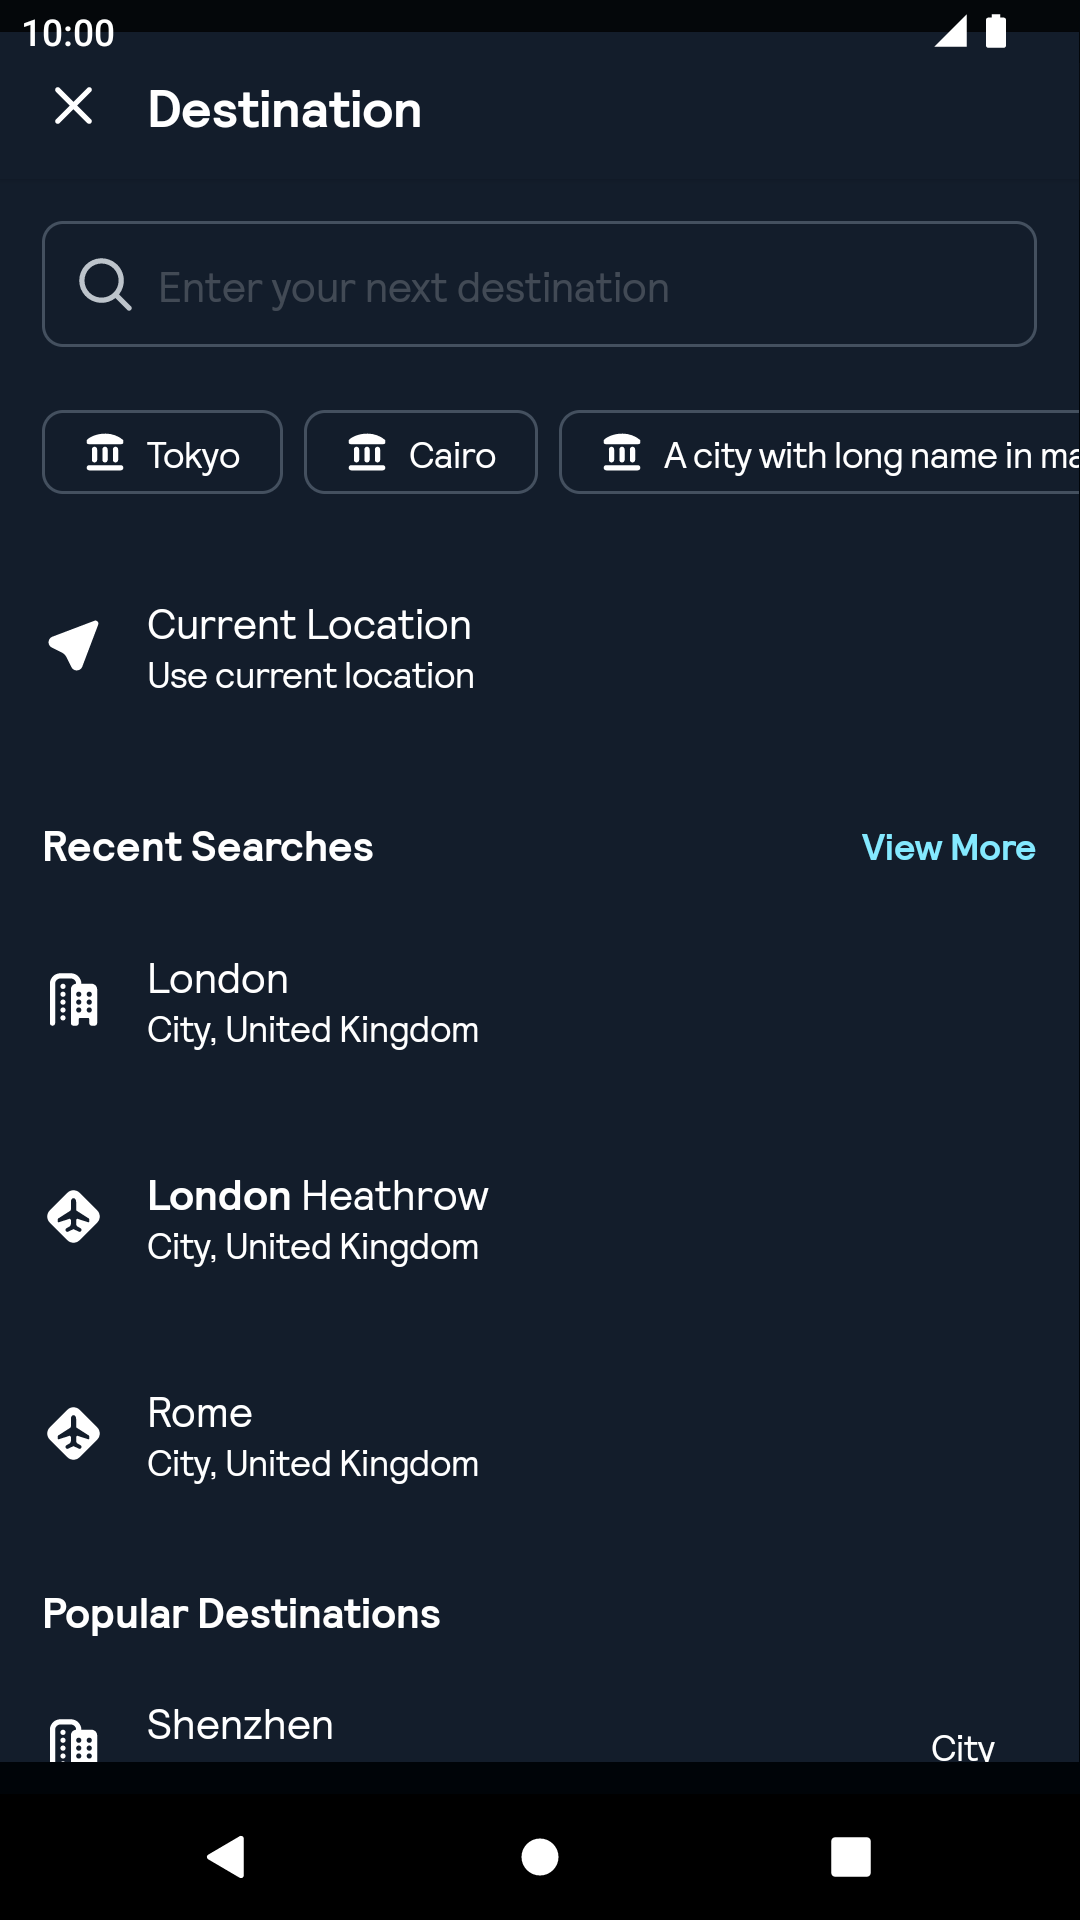
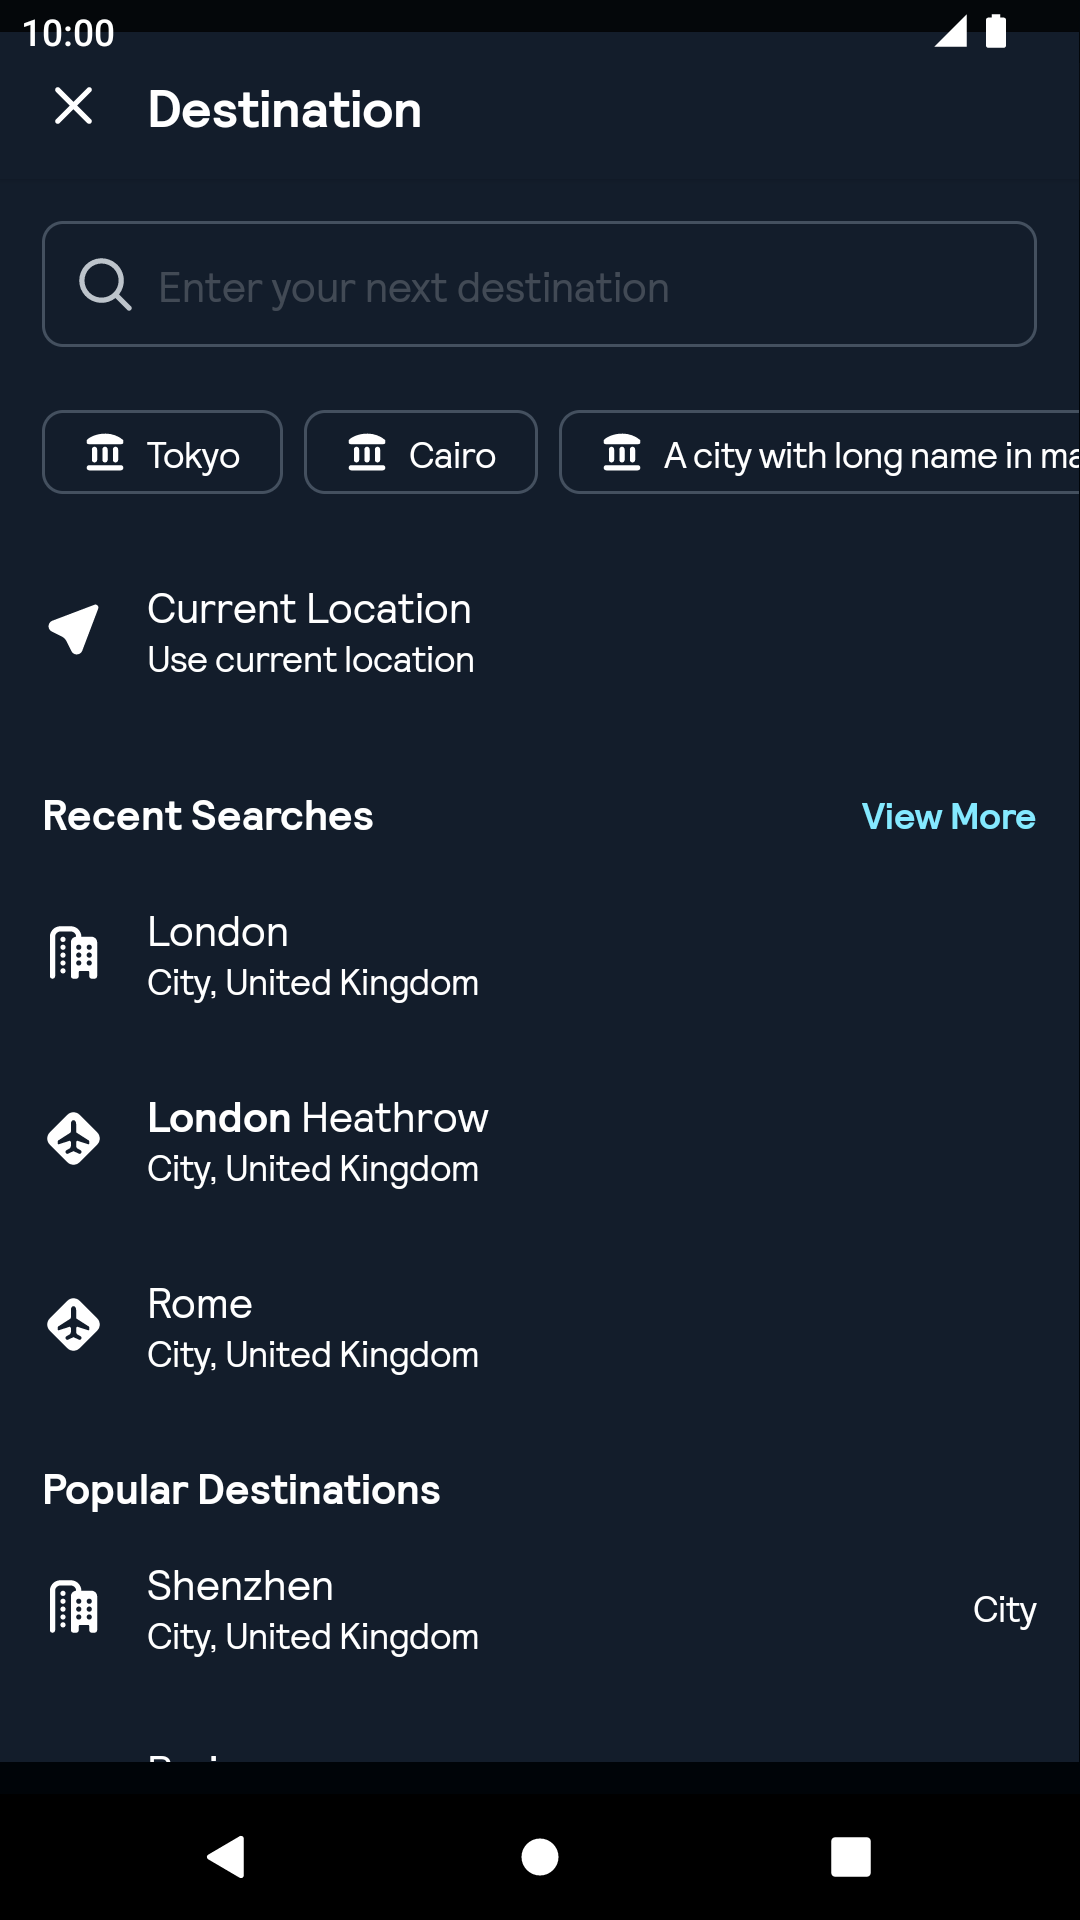
fix to more standard and simplification

diff --git a/app/src/main/java/net/skyscanner/backpack/demo/compose/AppSearchModalStory.kt b/app/src/main/java/net/skyscanner/backpack/demo/compose/AppSearchModalStory.kt
@@ -131,7 +131,6 @@ internal fun contentResult() = BpkAppSearchModalResult.Content(
                     subtitle = buildAnnotatedString { append(stringResource(id = R.string.current_location_subtitle)) },
                     icon = BpkIcon.UseLocation,
                     onItemSelected = {},
-                    type = "",
                 ),
             ),
         ),
@@ -146,7 +145,6 @@ internal fun contentResult() = BpkAppSearchModalResult.Content(
                     subtitle = buildAnnotatedString { append(stringResource(id = R.string.search_modal_item_subtitle)) },
                     icon = BpkIcon.City,
                     onItemSelected = {},
-                    type = "",
                 ),
                 BpkItem(
                     title = buildAnnotatedString {
@@ -158,14 +156,12 @@ internal fun contentResult() = BpkAppSearchModalResult.Content(
                     subtitle = buildAnnotatedString { append(stringResource(id = R.string.search_modal_item_subtitle)) },
                     icon = BpkIcon.Airports,
                     onItemSelected = {},
-                    type = "",
                 ),
                 BpkItem(
                     title = buildAnnotatedString { append(stringResource(id = R.string.city_rome)) },
                     subtitle = buildAnnotatedString { append(stringResource(id = R.string.search_modal_item_subtitle)) },
                     icon = BpkIcon.Airports,
                     onItemSelected = {},
-                    type = "",
                 ),
             ),
         ),
@@ -179,28 +175,28 @@ internal fun contentResult() = BpkAppSearchModalResult.Content(
                     subtitle = buildAnnotatedString { append(stringResource(id = R.string.search_modal_item_subtitle)) },
                     icon = BpkIcon.City,
                     onItemSelected = {},
-                    type = "City",
+                    tertiaryLabel = stringResource(id = R.string.search_modal_item_tertiary_label),
                 ),
                 BpkItem(
                     title = buildAnnotatedString { append(stringResource(id = R.string.city_paris)) },
                     subtitle = buildAnnotatedString { append(stringResource(id = R.string.search_modal_item_subtitle)) },
                     icon = BpkIcon.City,
                     onItemSelected = {},
-                    type = "City",
+                    tertiaryLabel = stringResource(id = R.string.search_modal_item_tertiary_label),
                 ),
                 BpkItem(
                     title = buildAnnotatedString { append(stringResource(id = R.string.city_algiers)) },
                     subtitle = buildAnnotatedString { append(stringResource(id = R.string.search_modal_item_subtitle)) },
                     icon = BpkIcon.City,
                     onItemSelected = {},
-                    type = "City",
+                    tertiaryLabel = stringResource(id = R.string.search_modal_item_tertiary_label),
                 ),
                 BpkItem(
                     title = buildAnnotatedString { append(stringResource(id = R.string.city_madrid)) },
                     subtitle = buildAnnotatedString { append(stringResource(id = R.string.search_modal_item_subtitle)) },
                     icon = BpkIcon.City,
                     onItemSelected = {},
-                    type = "City",
+                    tertiaryLabel = stringResource(id = R.string.search_modal_item_tertiary_label),
                 ),
             ),
         ),

diff --git a/backpack-compose/src/main/kotlin/net/skyscanner/backpack/compose/appsearchmodal/internal/BpkSection.kt b/backpack-compose/src/main/kotlin/net/skyscanner/backpack/compose/appsearchmodal/internal/BpkSection.kt
@@ -19,11 +19,9 @@
 package net.skyscanner.backpack.compose.appsearchmodal.internal
 
 import androidx.compose.foundation.layout.Arrangement
-import androidx.compose.foundation.layout.Box
 import androidx.compose.foundation.layout.Column
 import androidx.compose.foundation.layout.Row
 import androidx.compose.foundation.layout.fillMaxWidth
-import androidx.compose.foundation.layout.padding
 import androidx.compose.runtime.Composable
 import androidx.compose.ui.Alignment
 import androidx.compose.ui.Modifier
@@ -72,31 +70,26 @@ internal fun BpkSectionItem(item: BpkItem, modifier: Modifier = Modifier) {
             .fillMaxWidth()
             .clickable(onClick = item.onItemSelected),
         verticalAlignment = Alignment.CenterVertically,
-        horizontalArrangement = Arrangement.SpaceBetween,
+        horizontalArrangement = Arrangement.spacedBy(BpkSpacing.Base),
     ) {
-        Row(
-            verticalAlignment = Alignment.CenterVertically,
-            horizontalArrangement = Arrangement.spacedBy(BpkSpacing.Base),
+        BpkIcon(
+            icon = item.icon,
+            contentDescription = null,
+            size = BpkIconSize.Large,
+        )
+        Column(
+            modifier = Modifier.weight(1f),
         ) {
-            BpkIcon(
-                icon = item.icon,
-                contentDescription = null,
-                size = BpkIconSize.Large,
-            )
-            Column {
-                BpkText(text = item.title)
-                BpkText(
-                    style = BpkTheme.typography.footnote,
-                    text = item.subtitle,
-                )
-            }
-        }
-        Box(
-            modifier = Modifier.padding(BpkSpacing.Base),
-        ) {
+            BpkText(text = item.title)
             BpkText(
                 style = BpkTheme.typography.footnote,
-                text = item.type,
+                text = item.subtitle,
+            )
+        }
+        item.tertiaryLabel?.let {
+            BpkText(
+                style = BpkTheme.typography.footnote,
+                text = it,
             )
         }
     }

diff --git a/backpack-compose/src/main/kotlin/net/skyscanner/backpack/compose/appsearchmodal/BpkAppSearchModal.kt b/backpack-compose/src/main/kotlin/net/skyscanner/backpack/compose/appsearchmodal/BpkAppSearchModal.kt
@@ -58,7 +58,7 @@ data class BpkItem(
     val subtitle: AnnotatedString,
     val icon: BpkIcon,
     val onItemSelected: () -> Unit,
-    val type: String,
+    val tertiaryLabel: String? = null,
 )
 
 data class BpkSectionHeading(val title: String, val action: BpkAction? = null)
